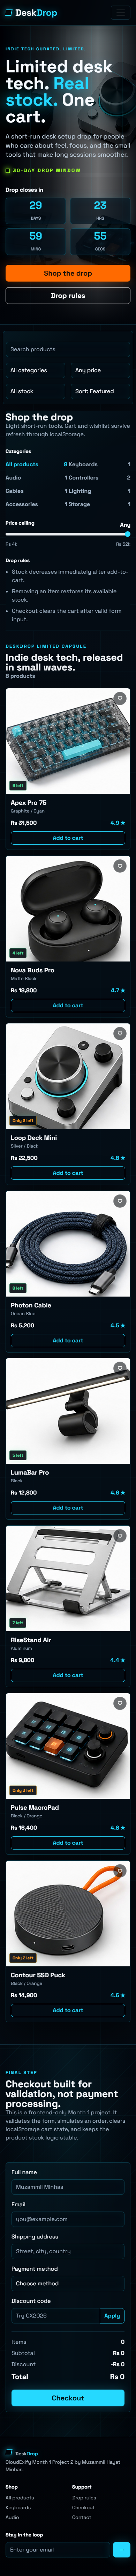
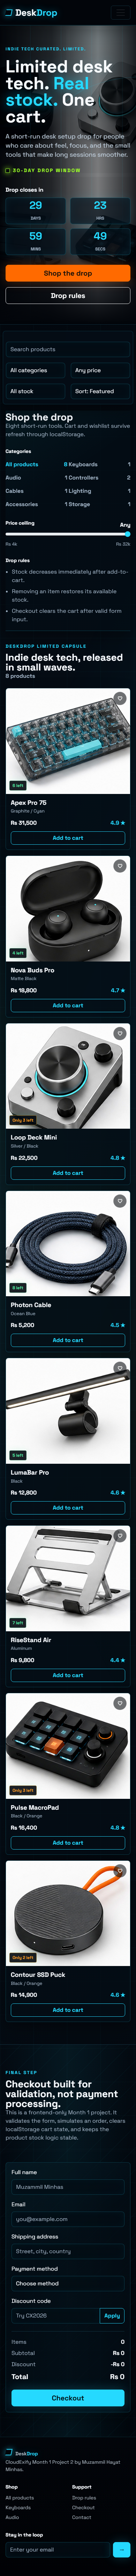
Optimize futuristic storefront scroll performance

diff --git a/css/style.css b/css/style.css
@@ -893,7 +893,7 @@ body::before {
     linear-gradient(115deg, transparent 0 28%, rgba(37, 217, 255, 0.12) 42%, transparent 58%),
     linear-gradient(245deg, transparent 0 38%, rgba(156, 255, 40, 0.08) 49%, transparent 62%);
   opacity: 0.72;
-  animation: auroraShift 16s ease-in-out infinite alternate;
+  transform: translateZ(0);
 }
 
 body::after {
@@ -904,7 +904,7 @@ body::after {
   pointer-events: none;
   background: repeating-linear-gradient(180deg, transparent 0 7px, rgba(255, 255, 255, 0.024) 8px);
   mix-blend-mode: screen;
-  opacity: 0.38;
+  opacity: 0.18;
 }
 
 .ambient-field {
@@ -922,7 +922,8 @@ body::after {
   background: linear-gradient(90deg, transparent, rgba(37, 217, 255, 0.8), transparent);
   transform: rotate(-18deg);
   opacity: 0.55;
-  animation: dataStreak 8s linear infinite;
+  animation: dataStreak 14s linear infinite;
+  will-change: transform;
 }
 
 .star-a {
@@ -1068,7 +1069,6 @@ body.is-loaded .boot-loader {
     linear-gradient(90deg, rgba(2, 5, 10, 0.94) 0%, rgba(2, 5, 10, 0.74) 38%, rgba(2, 5, 10, 0.18) 72%, rgba(2, 5, 10, 0.78) 100%),
     linear-gradient(180deg, rgba(37, 217, 255, 0.08), transparent 38%),
     url("../assets/products/product-sheet.png") center / cover no-repeat;
-  filter: saturate(1.36) contrast(1.18) brightness(0.62);
   opacity: 0.82;
 }
 
@@ -1076,7 +1076,6 @@ html[data-theme="light"] .hero-image {
   background:
     linear-gradient(90deg, rgba(2, 5, 10, 0.92) 0%, rgba(2, 5, 10, 0.72) 40%, rgba(2, 5, 10, 0.2) 74%, rgba(2, 5, 10, 0.75) 100%),
     url("../assets/products/product-sheet.png") center / cover no-repeat;
-  filter: saturate(1.25) contrast(1.08) brightness(0.74);
 }
 
 .hero-shade {
@@ -1096,7 +1095,6 @@ html[data-theme="light"] .hero-image {
   transform: perspective(560px) rotateX(62deg);
   transform-origin: center bottom;
   opacity: 0.26;
-  animation: gridPulse 5s ease-in-out infinite alternate;
 }
 
 .hero-orbit {
@@ -1111,7 +1109,7 @@ html[data-theme="light"] .hero-image {
   border-radius: 50%;
   transform: rotate(-13deg);
   filter: drop-shadow(0 0 22px rgba(37, 217, 255, 0.5));
-  animation: orbitDrift 12s linear infinite;
+  opacity: 0.72;
 }
 
 .hero-scan {
@@ -1120,7 +1118,8 @@ html[data-theme="light"] .hero-image {
   background: linear-gradient(180deg, transparent 0%, rgba(37, 217, 255, 0.18) 50%, transparent 100%);
   height: 18%;
   opacity: 0.35;
-  animation: scanDown 6s linear infinite;
+  animation: scanDown 10s linear infinite;
+  will-change: transform;
 }
 
 .hero-signal,
@@ -1220,7 +1219,8 @@ html[data-theme="light"] .hero-image {
   border-radius: var(--radius);
   object-fit: cover;
   box-shadow: 0 24px 70px rgba(0, 0, 0, 0.58), 0 0 42px rgba(37, 217, 255, 0.24);
-  animation: floatLab 5.2s ease-in-out infinite;
+  animation: floatLab 8s ease-in-out infinite;
+  will-change: transform;
 }
 
 .stage-keyboard {
@@ -1286,7 +1286,6 @@ html[data-theme="light"] .hero-image {
   background:
     linear-gradient(145deg, rgba(37, 217, 255, 0.055), transparent 36%),
     rgba(4, 13, 21, 0.76);
-  backdrop-filter: blur(18px);
 }
 
 .toolbar {
@@ -1294,11 +1293,12 @@ html[data-theme="light"] .hero-image {
   border-radius: var(--radius);
   margin-top: -32px;
   box-shadow: 0 24px 90px rgba(0, 0, 0, 0.42);
+  background: rgba(4, 13, 21, 0.94);
 }
 
 .product-card {
   isolation: isolate;
-  transform: perspective(900px) rotateX(calc((var(--my, 0.5) - 0.5) * -5deg)) rotateY(calc((var(--mx, 0.5) - 0.5) * 7deg));
+  transform: translate3d(0, 0, 0);
   transition: transform 220ms ease, border-color 220ms ease, box-shadow 220ms ease;
 }
 
@@ -1333,6 +1333,7 @@ html[data-theme="light"] .hero-image {
 .product-card:hover {
   border-color: rgba(37, 217, 255, 0.64);
   box-shadow: 0 30px 100px rgba(0, 0, 0, 0.64), 0 0 42px rgba(37, 217, 255, 0.14);
+  transform: translate3d(0, -6px, 0);
 }
 
 .product-card:hover::before {
@@ -1504,5 +1505,39 @@ html[data-theme="light"] .hero-image {
   .hero-orbit {
     width: 92vw;
     right: -32%;
+  }
+}
+
+@media (max-width: 767.98px) {
+  body::after,
+  .ambient-field,
+  .hero-scan {
+    display: none;
+  }
+
+  body::before {
+    position: absolute;
+    opacity: 0.42;
+  }
+
+  .hero-grid {
+    opacity: 0.16;
+  }
+
+  .product-card,
+  .checkout-card,
+  .toolbar,
+  .filter-rail {
+    box-shadow: 0 16px 42px rgba(0, 0, 0, 0.34);
+  }
+
+  .product-card::after,
+  .countdown-grid div::before {
+    display: none;
+  }
+
+  .product-card:hover,
+  .product-card:hover .product-media img {
+    transform: none;
   }
 }

diff --git a/js/script.js b/js/script.js
@@ -375,14 +375,26 @@ function initExperience() {
 
   document.querySelectorAll(".reveal").forEach((item) => revealObserver.observe(item));
 
+  let pointerFrame = 0;
+  let pendingPointer = null;
   els.productGrid.addEventListener("pointermove", (event) => {
     const card = event.target.closest(".product-card");
     if (!card) return;
     const rect = card.getBoundingClientRect();
-    const x = (event.clientX - rect.left) / rect.width;
-    const y = (event.clientY - rect.top) / rect.height;
-    card.style.setProperty("--mx", x.toFixed(3));
-    card.style.setProperty("--my", y.toFixed(3));
+    pendingPointer = {
+      card,
+      x: (event.clientX - rect.left) / rect.width,
+      y: (event.clientY - rect.top) / rect.height
+    };
+    if (pointerFrame) return;
+    pointerFrame = requestAnimationFrame(() => {
+      if (pendingPointer) {
+        pendingPointer.card.style.setProperty("--mx", pendingPointer.x.toFixed(3));
+        pendingPointer.card.style.setProperty("--my", pendingPointer.y.toFixed(3));
+      }
+      pendingPointer = null;
+      pointerFrame = 0;
+    });
   });
 
   els.productGrid.addEventListener("pointerout", (event) => {